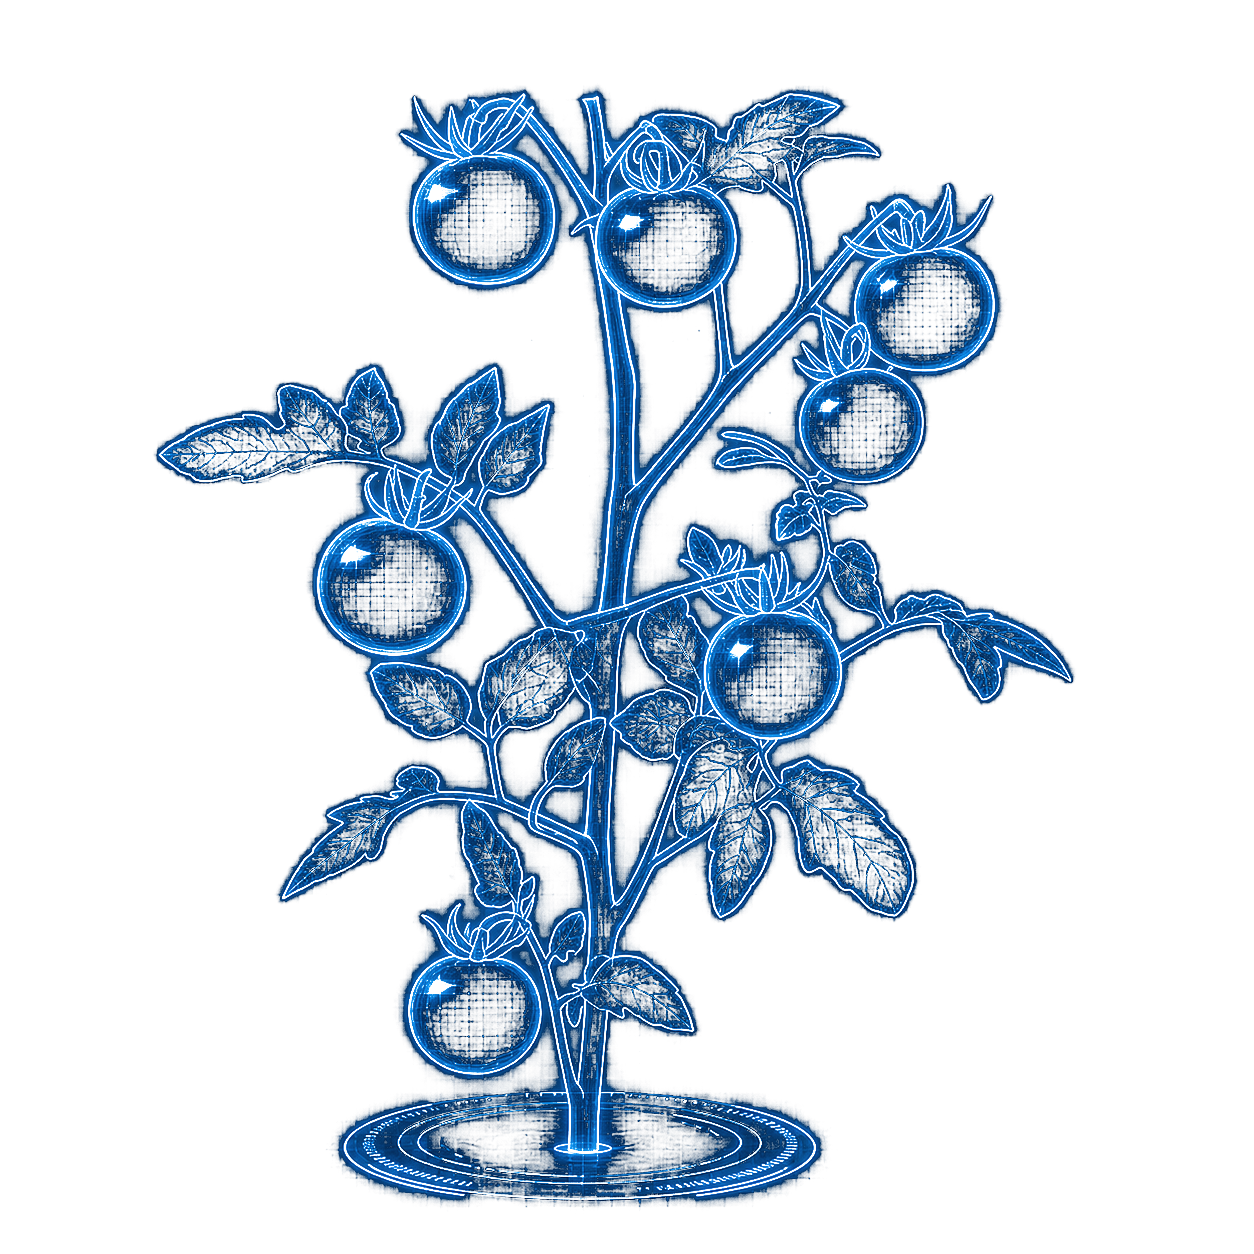
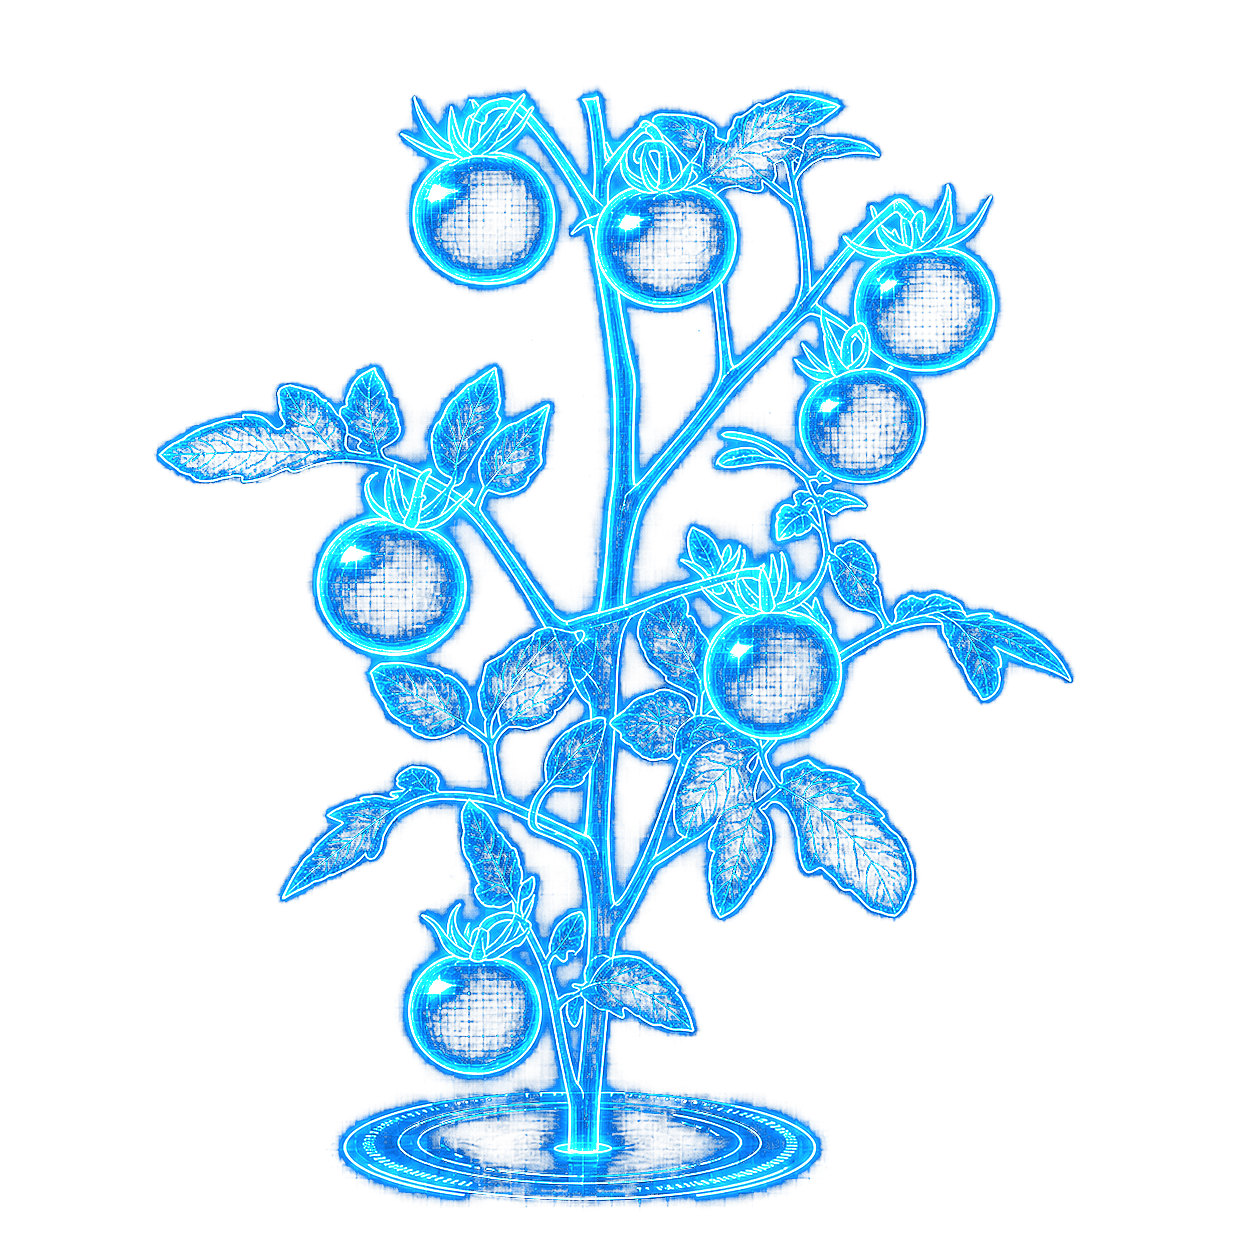
Brighten hochbeet/tomaten/gurken PNGs; set HOME DASHBOARD title to violet
- hochbeet.png: 1.8x brightness boost for more presence
- tomaten.png, gurken.png: 2.2x brightness to match holographic style
- index.html: #banner color changed from orange to violet (#B59CFF) to match date display

Changed region(s): [[0.1244, 0.0622, 0.8708, 0.9641]]

diff --git a/www/index.html b/www/index.html
@@ -164,7 +164,7 @@ html, body {
 #banner {
   font-size: 28px;
   font-weight: 300;
-  color: var(--orange);
+  color: var(--violet);
   text-transform: uppercase;
   letter-spacing: 8px;
   line-height: 1;